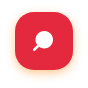
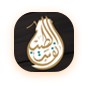
0802 - 0.0.6 Deployment
- Design Fix

diff --git a/client/src/containers/Home/Home.js b/client/src/containers/Home/Home.js
@@ -8,6 +8,7 @@ import Rating from '@material-ui/lab/Rating';
 import { withStyles } from '@material-ui/core/styles';
 import { connect } from 'react-redux';
 import { compose } from 'redux';
+import htmlToText from 'html-to-text';
 import {
   getCategories,
   getFoods,
@@ -41,13 +42,10 @@ const styles = (theme) => ({
     height: '100%',
   },
   paper: {
-    display: 'flex',
-    flexDirection: 'column',
-    alignItems: 'center',
     height: '100%',
+    overflowY: 'auto',
   },
   topSecHome1: {
-    flex: 1,
     backgroundImage: 'url(../images/picturemessage_intra0vh.wzc@2x.png)',
     backgroundColor: '#fff',
     backgroundPosition: 'bottom center',
@@ -55,7 +53,7 @@ const styles = (theme) => ({
     width: '100%',
   },
   topSecHome2: {
-    flex: 1,
+    height: '60vw',
     backgroundImage: 'url(../../images/home-food-top.png)',
     backgroundColor: '#fff',
     backgroundPosition: 'bottom center',
@@ -65,13 +63,11 @@ const styles = (theme) => ({
   },
   mainSecHome1: {
     flex: 1.5,
-    overflowY: 'auto',
     padding: theme.spacing(3, 3),
   },
   mainSecHome2: {
     flex: 1.7,
     width: '100%',
-    overflowY: 'auto',
     padding: theme.spacing(3, 3),
     backgroundColor: '#fff',
   },
@@ -79,20 +75,20 @@ const styles = (theme) => ({
     color: '#fff',
     fontWeight: '300',
     padding: theme.spacing(0, 3),
-    fontSize: '1.2rem',
+    fontSize: '1rem',
   },
   blackTitle: {
     color: '#333',
     fontWeight: 'normal',
     fontSize: '1.15rem',
-    padding: theme.spacing(1, 0, 3),
+    padding: theme.spacing(0, 0, 2),
     textAlign: 'center',
   },
   sliderElem: {
     position: 'relative',
     display: 'inline-block',
-    width: '80vw',
-    height: '45vw',
+    width: '70vw',
+    height: '37vw',
   },
   sliderImage: {
     borderRadius: '8px',
@@ -123,14 +119,15 @@ const styles = (theme) => ({
     left: 0,
     top: 0,
     width: '100%',
-    height: '100%',
+    height: '130px',
     backgroundColor: 'rgba(0,0,0,0.3)',
     borderRadius: '8px',
   },
   categoryImageSec: {
     position: 'relative',
     width: '100%',
-    height: '130px',
+    height: '160px',
+    paddingBottom: '30px'
   },
   categoryImage: {
     borderRadius: '8px',
@@ -138,12 +135,10 @@ const styles = (theme) => ({
     height: '100%',
   },
   categoryTitle: {
-    color: '#fff',
+    color: '#333',
     fontWeight: 'normal',
     fontSize: '1rem',
-    position: 'absolute',
-    top: '10px',
-    left: '10px',
+    
   },
   categoryText: {
     color: '#fff',
@@ -152,10 +147,13 @@ const styles = (theme) => ({
     position: 'absolute',
     bottom: '0',
     right: '0',
-    padding: '5px 20px',
-    backgroundColor: 'rgba(229,41,62,0.5)',
-    borderTopLeftRadius: '20px',
+    height: '100%',
+    width: '50%',
+    backgroundColor: 'rgba(229,41,62,1)',
+    borderTopRightRadius: '5px',
     borderBottomRightRadius: '5px',
+    textAlign: 'center',
+    paddingTop: '12vw',
   },
   foodElem: {
     borderRadius: '10px',
@@ -217,6 +215,16 @@ const styles = (theme) => ({
     borderRadius: '15px',
     marginLeft: '10px',
   },
+  quentityBtn: {
+    width: theme.spacing(3),
+    height: theme.spacing(3),
+    borderRadius: 20,
+    backgroundColor: '#E5293E',
+    textAlign: 'center',
+    fontSize: '1rem',
+    lineHeight: '24px',
+    color: '#fff',
+  },
 });
 
 class Home extends React.Component {
@@ -267,7 +275,6 @@ class Home extends React.Component {
   }
 
   async onClickCategory(category) {
-
     var categories = this.state.categories;
     for (var i = 0; i < categories.length; i++) {
       if (categories[i]._id == category._id) {
@@ -432,16 +439,16 @@ class Home extends React.Component {
     return (
       <div className={classes.topSecHome1}>
         <div>
-          <div style={{ marginTop: '95px' }}></div>
+          <div style={{ height: '80px' }}></div>
           <Typography component="p" variant="h6" className={classes.whiteTitle}>
             Most Popular
           </Typography>
           <CarouselProvider
             naturalSlideWidth={100}
             naturalSlideHeight={50}
-            totalSlides={3}
+            totalSlides={sliderElems.length}
             isPlaying={true}
-            style={{ width: '100%', marginTop: '5px' }}
+            style={{ width: '100%', marginTop: '5px', height: '40vw' }}
           >
             <Slider>{sliderElems}</Slider>
           </CarouselProvider>
@@ -494,7 +501,7 @@ class Home extends React.Component {
         var qty = bag ? bag.qty : 0;
 
         foodElems.push(
-          <Grid container key={food._Id} className={classes.foodElem}>
+          <Grid container key={'cf_' + food._Id} className={classes.foodElem}>
             <Grid
               xs={3}
               item
@@ -540,9 +547,16 @@ class Home extends React.Component {
                 component="p"
                 variant="h6"
                 className={classes.foodDetailDesc}
-                dangerouslySetInnerHTML={{__html: food ? textEllipsis(trans.desc, 60, '...') : ''}}
-              >
-              </Typography>
+                dangerouslySetInnerHTML={{
+                  __html: food
+                    ? textEllipsis(
+                        htmlToText.fromString(trans.desc, { wordWrap: false }),
+                        60,
+                        '...'
+                      )
+                    : '',
+                }}
+              ></Typography>
 
               <div style={{ display: 'inline-block', width: '50%' }}>
                 <div className={classes.qtyActionSec}>
@@ -552,7 +566,7 @@ class Home extends React.Component {
                   >
                     +
                   </span>
-                  <span>{qty}</span>
+                  <span style={{ lineHeight: '24px' }}>{qty}</span>
                   <span
                     className={classes.quentityBtn}
                     onClick={this.onMinusQty.bind(this, bag, food)}
@@ -625,9 +639,9 @@ class Home extends React.Component {
                   height: '33vw',
                   backgroundImage:
                     'url(' + config.serverUrl + category.image + ')',
-                  backgroundPosition: 'center',
+                  backgroundPosition: '0 center',
                   backgroundRepeat: 'no-repeat',
-                  backgroundSize: '100% 100%',
+                  backgroundSize: 'auto 100%',
                   borderRadius: '5px',
                   position: 'relative',
                 }}

diff --git a/client/src/components/BottomNavigator.js b/client/src/components/BottomNavigator.js
@@ -79,7 +79,7 @@ class BottomNavigator extends React.Component {
             <IconButton
               color="inherit"
               aria-label="open drawer"
-              onClick={()=>{window.location='/common/search'}}
+              onClick={()=>{}}
               className={classes.menuButton}
               style={{marginTop: '-50px'}}
             >
@@ -90,21 +90,22 @@ class BottomNavigator extends React.Component {
             <IconButton
               color="inherit"
               aria-label="open drawer"
-              onClick={()=>{}}
+              onClick={()=>{window.location='/common/search'}}
               className={classes.menuButton}
+              style={{marginLeft: '-15px'}}
             >
-              <img src="/images/Menu-lang.png" />
+              <img src="/images/Menu-search.png" />
             </IconButton>
           </Grid>
           <Grid xs={2} item className={classes.navElem}>
             <IconButton
               color="inherit"
               aria-label="open drawer"
-              onClick={()=>{window.location='/profile/profile'}}
+              onClick={()=>{}}
               className={classes.menuButton}
-              style={{marginTop: '5px'}}
+              style={{marginLeft: '-15px', marginTop: '-2px'}}
             >
-              <img src="/images/Menu-Icon.png" />
+              <img src="/images/Menu-lang.png" />
             </IconButton>
           </Grid>
         </Grid>

diff --git a/client/src/components/Header.js b/client/src/components/Header.js
@@ -20,6 +20,7 @@ import {
   getCurrentUser,
   getSignedInWith,
   getBagBags,
+  getSettingSetting,
 } from '../store/selectors';
 import { signOut, getBags } from '../store/actions';
 
@@ -51,8 +52,11 @@ const styles = (theme) => ({
     padding: 4,
   },
   logoText: {
-    textAlign: 'left',
-    color: 'rgba(255,255,255,0.7)',
+    textAlign: 'center',
+    color: '#fff',
+    // backgroundColor: '#E5293E',
+    padding: theme.spacing(0.5),
+    borderRadius: 20
   },
 });
 
@@ -105,6 +109,11 @@ class Header extends React.Component {
         }
       });
     });
+
+    if( brand == 'Home'  ){
+      brand = 'Anfas AlTeeb'
+
+    }
     return brand;
   };
 
@@ -187,6 +196,7 @@ const mapStateToProps = (state) => {
     bags: getBagBags(state),
     authProvider: getSignedInWith(state),
     pathname: state.router.location.pathname,
+    setting: getSettingSetting(state),
   };
 };
 

diff --git a/client/src/containers/Home/Food.js b/client/src/containers/Home/Food.js
@@ -88,7 +88,7 @@ const styles = (theme) => ({
     bottom: '40px',
     width: '100%',
     display: 'block',
-    textAlign: 'right',
+    textAlign: 'center',
   },
   blackTitle: {
     color: '#000',
@@ -134,7 +134,6 @@ const styles = (theme) => ({
     fontWeight: '300',
     textAlign: 'right',
     padding: theme.spacing(0.3, 1.5),
-    marginLeft: theme.spacing(1.5),
     borderRadius: '20px',
     backgroundColor: '#E5293E',
     fontSize: '0.8rem',
@@ -880,7 +879,6 @@ class Food extends React.Component {
                 variant="h6"
                 className={classes.whiteTitle}
               >
-                <span>{food ? trans.title : ''}</span>
                 <span className={classes.foodPrice}>
                   {food
                     ? trans.languageId.currency + trans.price

diff --git a/client/src/containers/Root/Theme.js b/client/src/containers/Root/Theme.js
@@ -161,7 +161,7 @@ const theme = createMuiTheme({
     MuiAppBar: {
       colorPrimary: {
         backgroundColor: 'transparent',
-        padding: '40px 20px 0',
+        padding: '30px 20px 0',
         position: 'absolute',
       },
     },

diff --git a/client/src/routes.js b/client/src/routes.js
@@ -45,7 +45,7 @@ const routeCategories = [
       {
         id: 'home',
         name: 'Home',
-        title: 'Fast Food',
+        title: 'Home',
         path: '/dashboard/home',
         component: HomePage,
         icon: '/images/home.png'

diff --git a/server/models/setting.model.js b/server/models/setting.model.js
@@ -6,6 +6,7 @@ let SettingSchema = new Schema(
         homeType: String,
         startTime: String,
         endTime: String,
+        logoText: String,
     },
     { timestamps: true }
 );

diff --git a/server/seed/settings.js b/server/seed/settings.js
@@ -4,6 +4,7 @@ module.exports = {
             homeType: 'home1',
             startTime: '09:00',
             endTime: '15:00',
+            logoText: 'Anfas AlTeeb',
         }
     ]
 }
